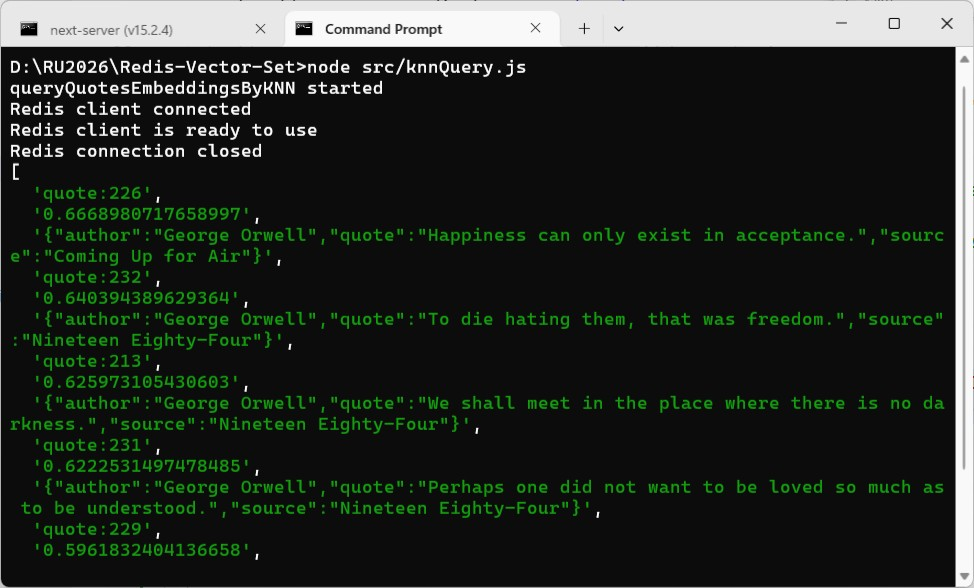
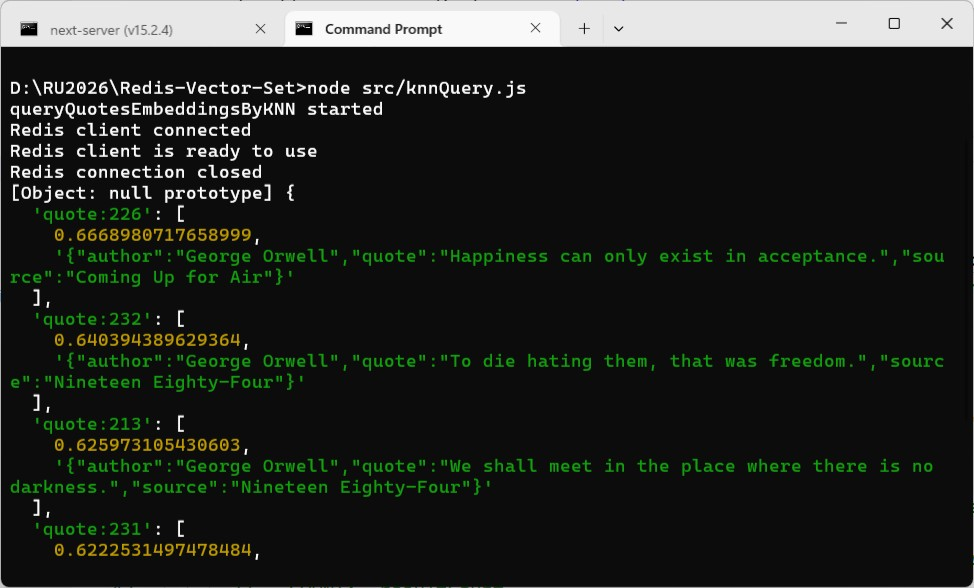
minor pic fix

Changed region(s): [[0.0, 0.0612, 1.0, 1.0], [0.3696, 0.5816, 0.8624, 0.6429]]

diff --git a/src/knnQuery.js b/src/knnQuery.js
@@ -23,6 +23,7 @@ const queryQuoteEmbeddingsByKNN = async (
     ) => {
     console.log(`queryQuotesEmbeddingsByKNN started`);
     await redis.connect();
+    await redis.hello(3)
     let results = {};
     if (_searchTxt) {
       _resultCount = _resultCount ?? 5;

diff --git a/README.md b/README.md
@@ -352,6 +352,7 @@ const queryQuoteEmbeddingsByKNN = async (
     ) => {
     console.log(`queryQuotesEmbeddingsByKNN started`);
     await redis.connect();
+    await redis.hello(3)
     let results = {};
     if (_searchTxt) {
       _resultCount = _resultCount ?? 5;
@@ -392,6 +393,7 @@ main()
           ])
 ```
 ![alt knn2](img/knn2.JPG)
+![alt knn3](img/knn3.JPG)
 
 
 #### IV. [Vector Sets Browser](https://github.com/redis/vector-sets-browser)
